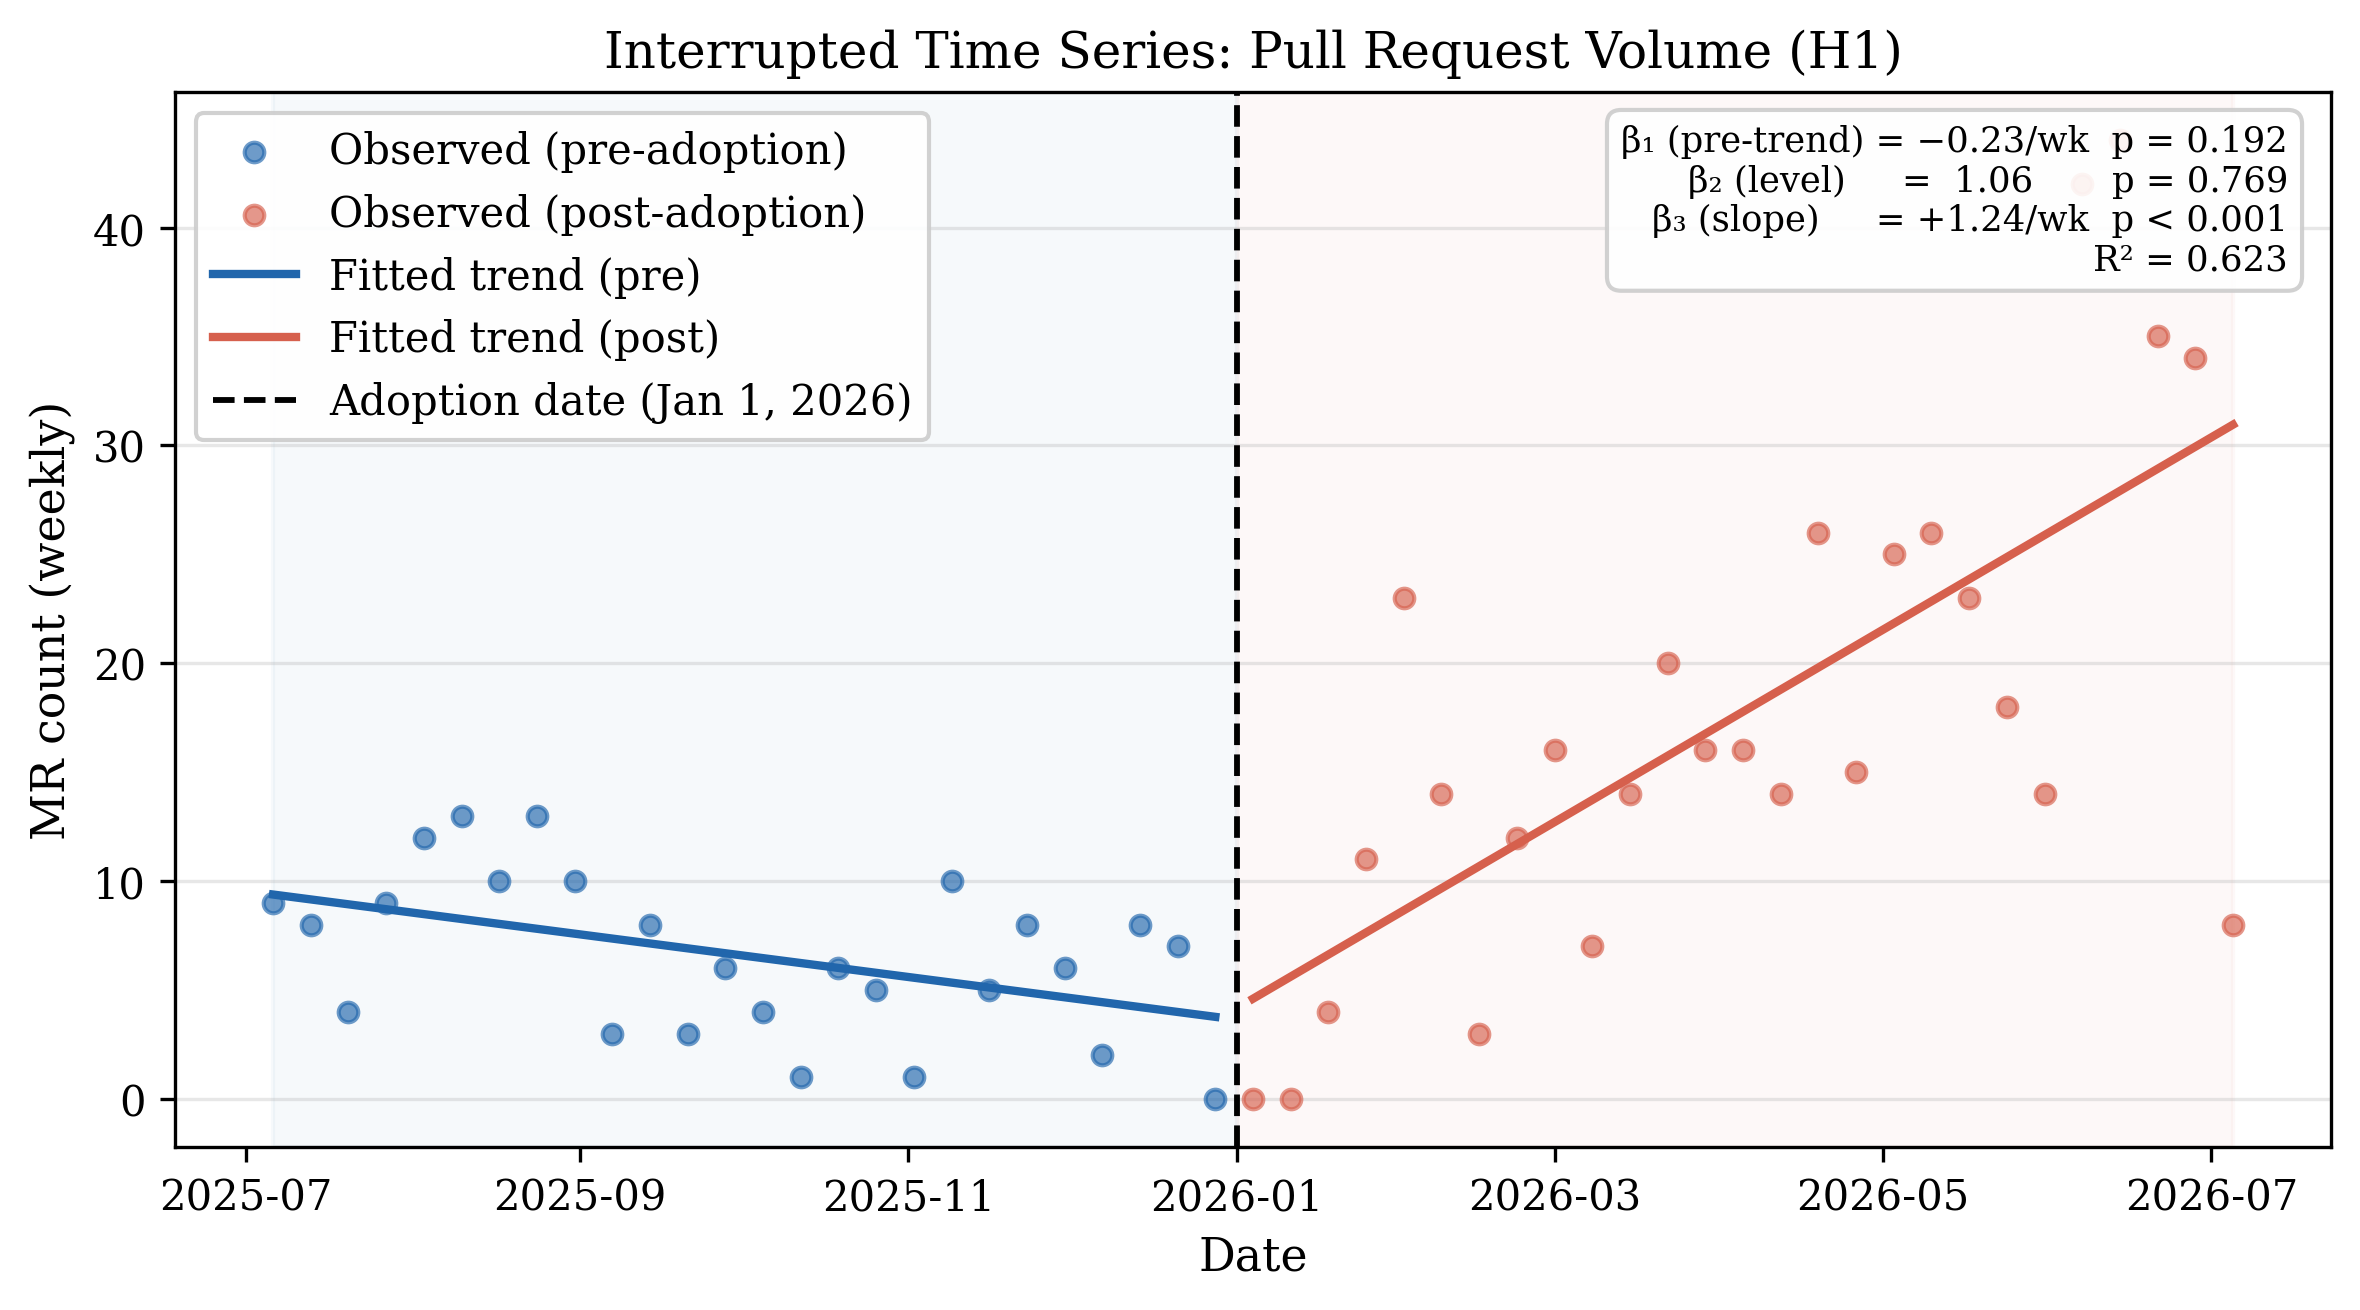
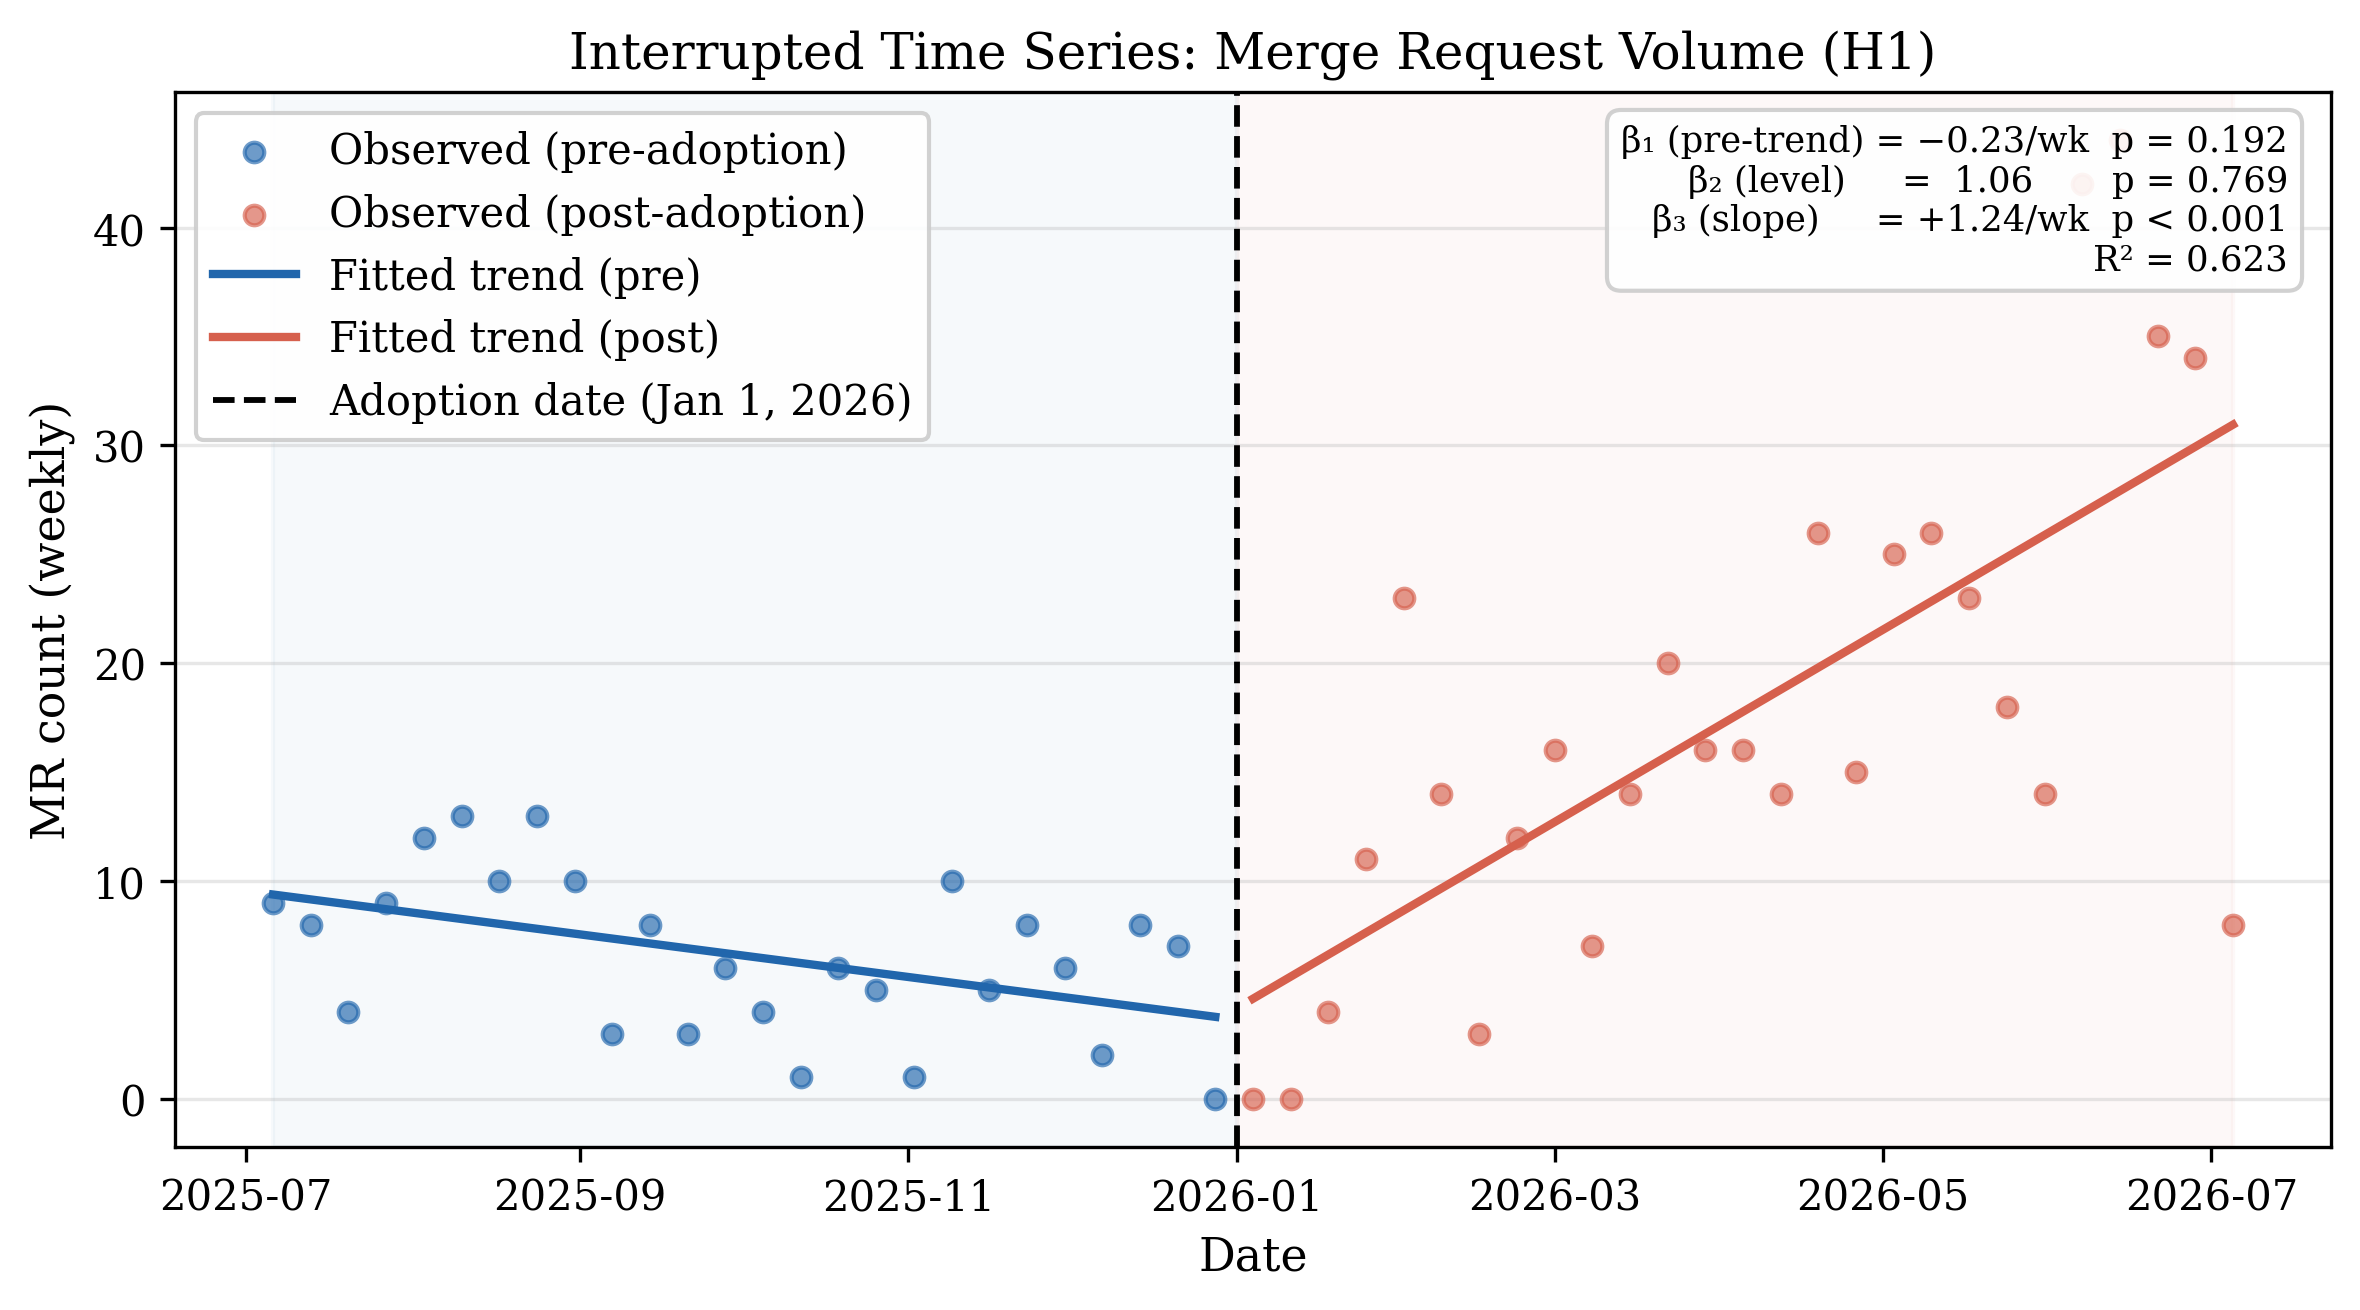
text update in figure 1

Changed region(s): [[0.2475, 0.0, 0.8352, 0.0611]]

diff --git a/create_figures.py b/create_figures.py
@@ -44,7 +44,8 @@ WASHOUT         = pd.Timedelta(days=15)
 df = pd.read_csv(DATA_DIR + "mr_metrics.csv", parse_dates=["created_at"])
 df["created_at"] = pd.to_datetime(df["created_at"], utc=True)
 df = df[df["target_branch"].isin(TARGET_BRANCHES)].copy()
-df = df[~df["title"].str.lower().str.startswith(("draft:", "wip:"), na=False)]
+if "title" in df.columns:
+    df = df[~df["title"].str.lower().str.startswith(("draft:", "wip:"), na=False)]
 df = df[~df["created_at"].between(ADOPTION_DATE - WASHOUT, ADOPTION_DATE + WASHOUT)]
 df["period"] = np.where(df["created_at"] < ADOPTION_DATE, "pre", "post")
 
@@ -109,7 +110,7 @@ ax.text(0.98, 0.97,
 
 ax.set_xlabel("Date")
 ax.set_ylabel("MR count (weekly)")
-ax.set_title("Interrupted Time Series: Pull Request Volume (H1)")
+ax.set_title("Interrupted Time Series: Merge Request Volume (H1)")
 ax.legend(loc="upper left", framealpha=0.9)
 ax.grid(axis="y", alpha=0.3)
 
